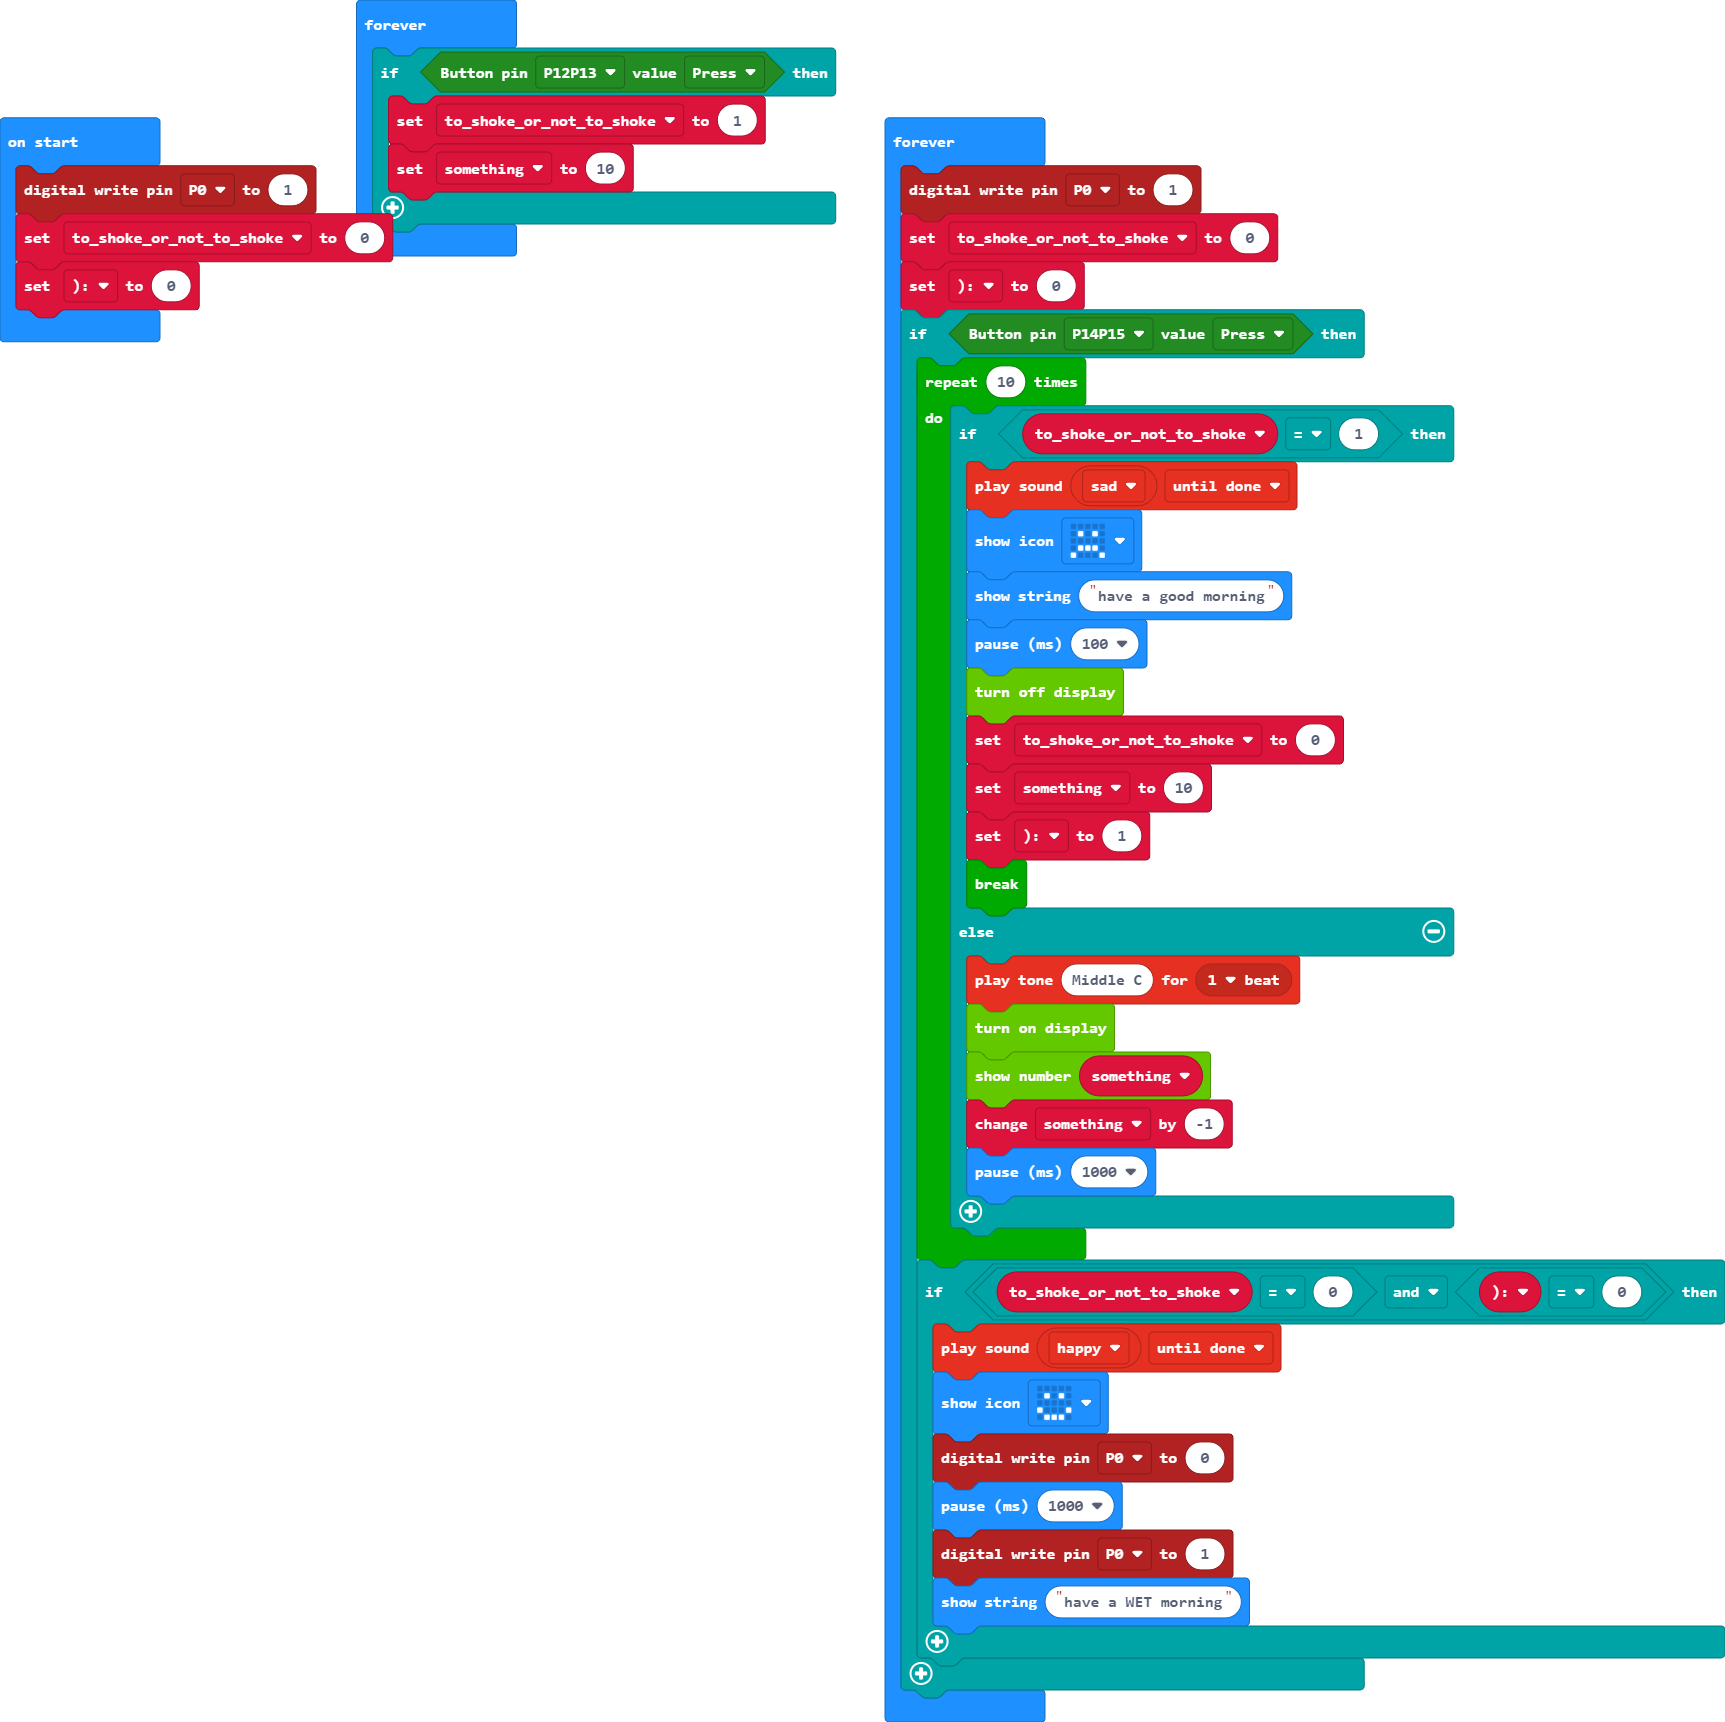
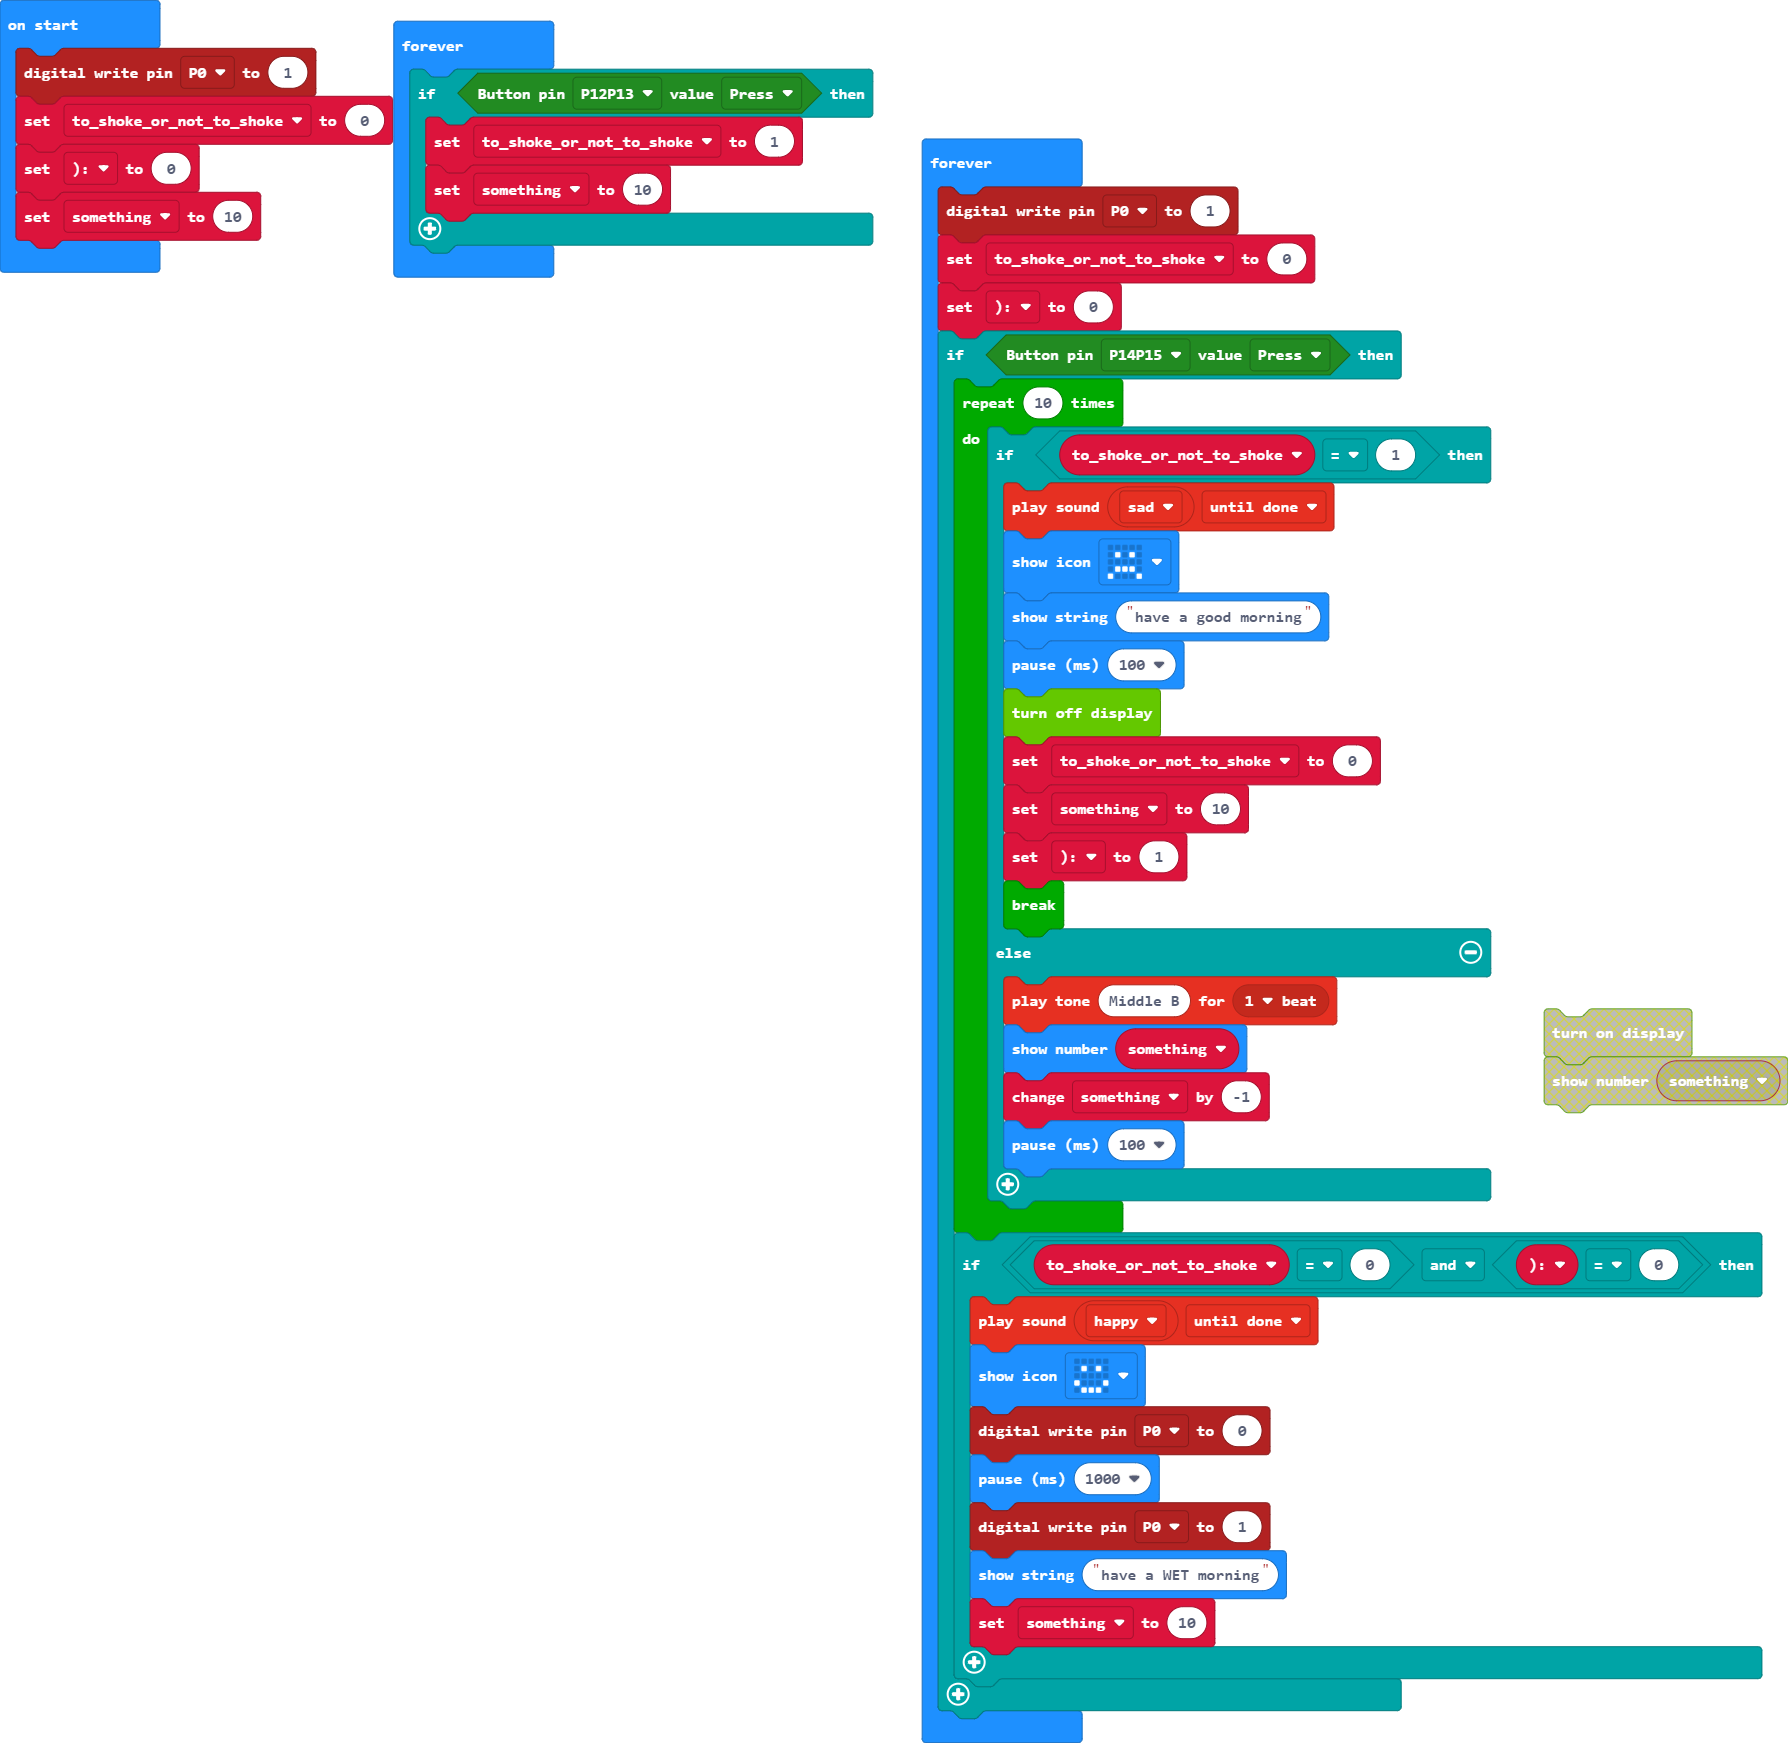
alpha2.0

diff --git a/main.ts b/main.ts
@@ -1,7 +1,7 @@
-let something = 0
 pins.digitalWritePin(DigitalPin.P0, 1)
 let to_shoke_or_not_to_shoke = 0
 let _ = 0
+let something = 10
 basic.forever(function () {
     if (ModuleWorld_Digital.Button(ModuleWorld_Digital.mwDigitalNum.P12P13, ModuleWorld_Digital.enButton.Press)) {
         to_shoke_or_not_to_shoke = 1
@@ -25,11 +25,10 @@ basic.forever(function () {
                 _ = 1
                 break;
             } else {
-                music.playTone(262, music.beat(BeatFraction.Whole))
-                TM1650.on()
-                TM1650.showNumber(something)
+                music.playTone(494, music.beat(BeatFraction.Whole))
+                basic.showNumber(something)
                 something += -1
-                basic.pause(1000)
+                basic.pause(100)
             }
         }
         if (to_shoke_or_not_to_shoke == 0 && _ == 0) {
@@ -39,6 +38,7 @@ basic.forever(function () {
             basic.pause(1000)
             pins.digitalWritePin(DigitalPin.P0, 1)
             basic.showString("have a WET morning")
+            something = 10
         }
     }
 })
